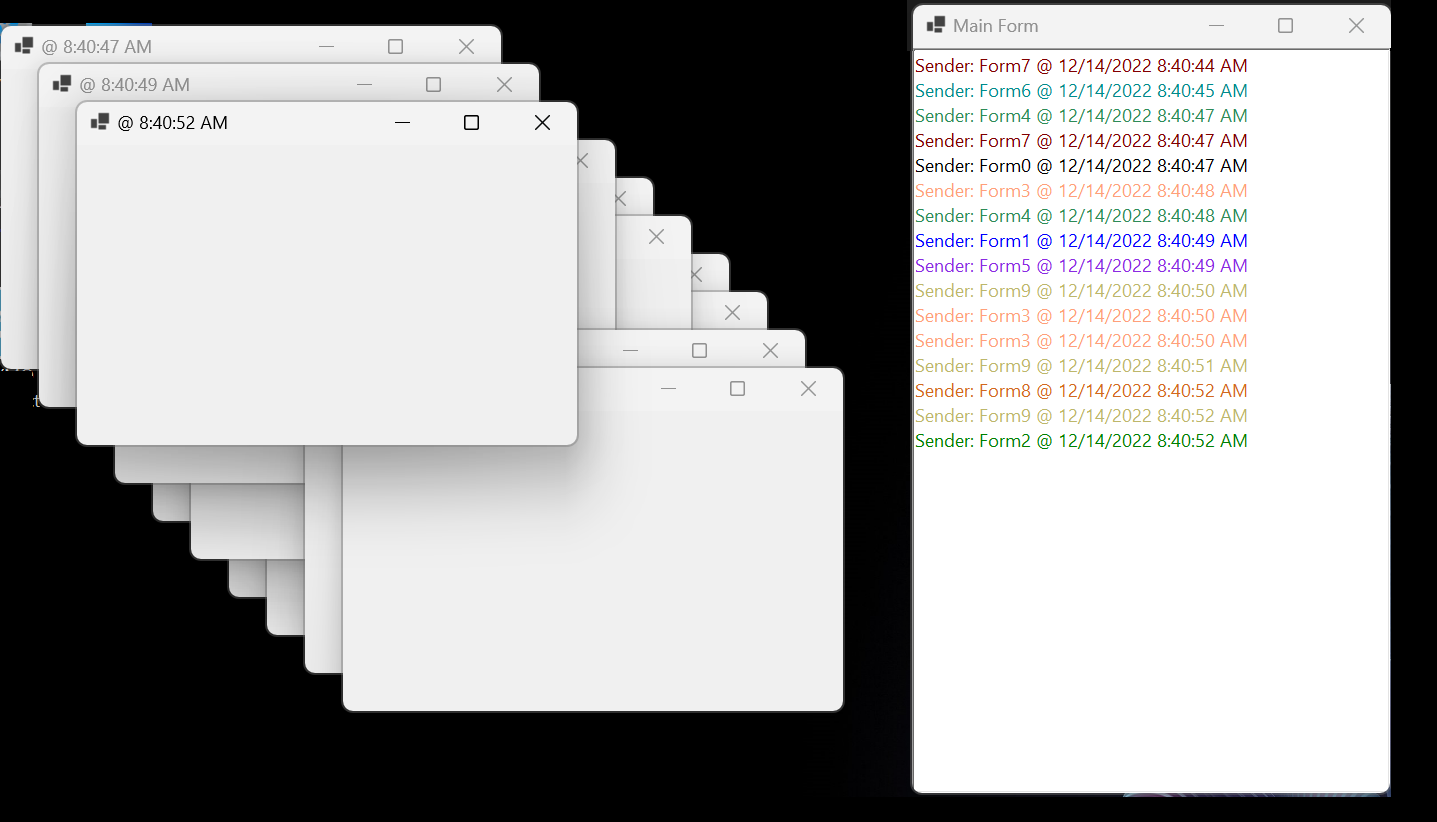
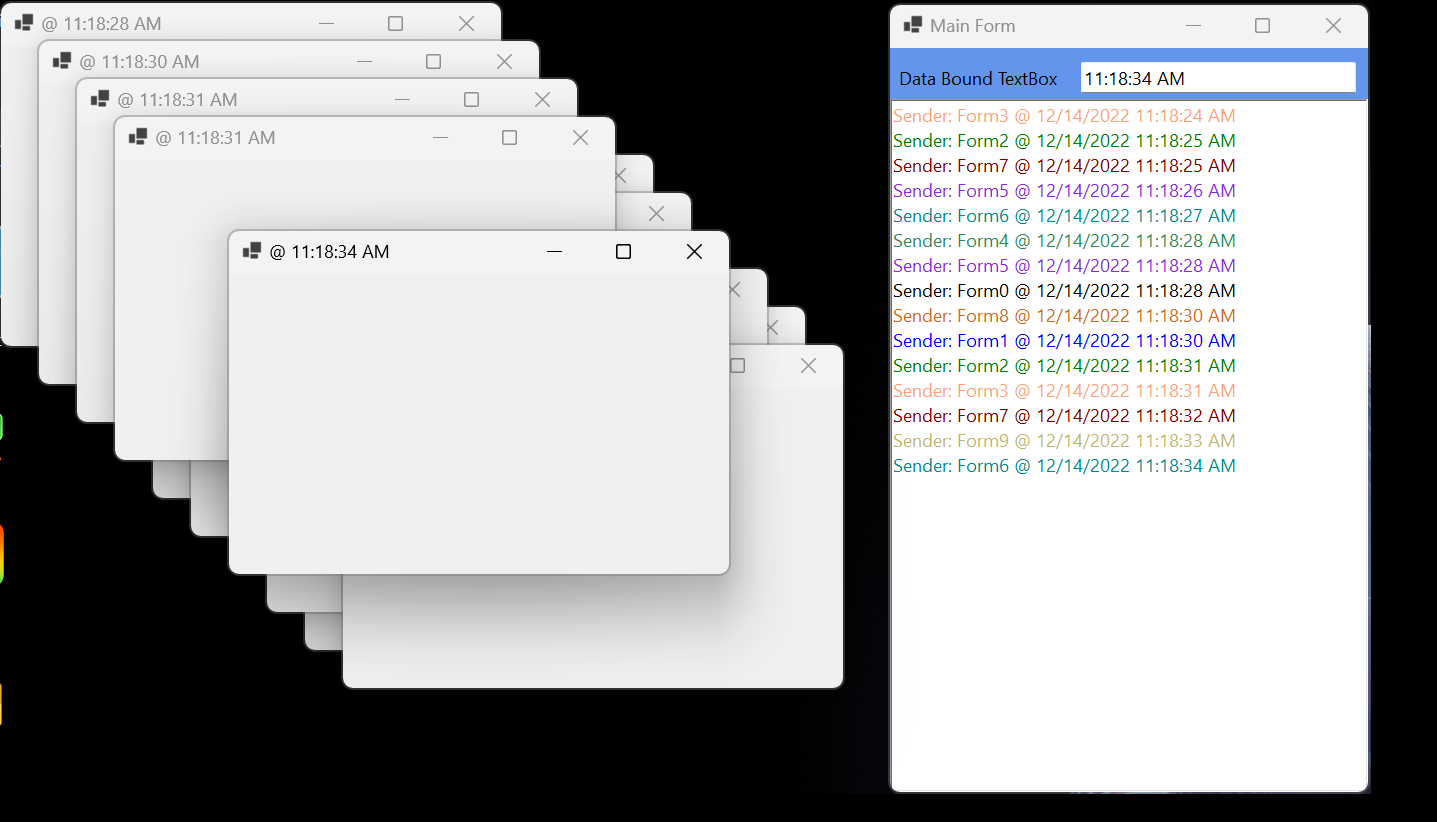
readme++

Changed region(s): [[0.0, 0.0, 0.9798, 0.9732]]

diff --git a/ui-form-multithreading/MainForm.cs b/ui-form-multithreading/MainForm.cs
@@ -12,7 +12,7 @@ namespace ui_form_multithreading
         protected override void OnLoad(EventArgs e)
         {
             base.OnLoad(e);
-
+            // Exercise a data binding
             textBox1.DataBindings.Add(
                 nameof(TextBox.Text),
                 this,

diff --git a/readme.md b/readme.md
@@ -12,7 +12,7 @@ Here's one way of achieving the kind of result you describe: this mock sample op
         protected override void OnLoad(EventArgs e)
         {
             base.OnLoad(e);
-
+            // Exercise a data binding
             textBox1.DataBindings.Add(
                 nameof(TextBox.Text),
                 this,
